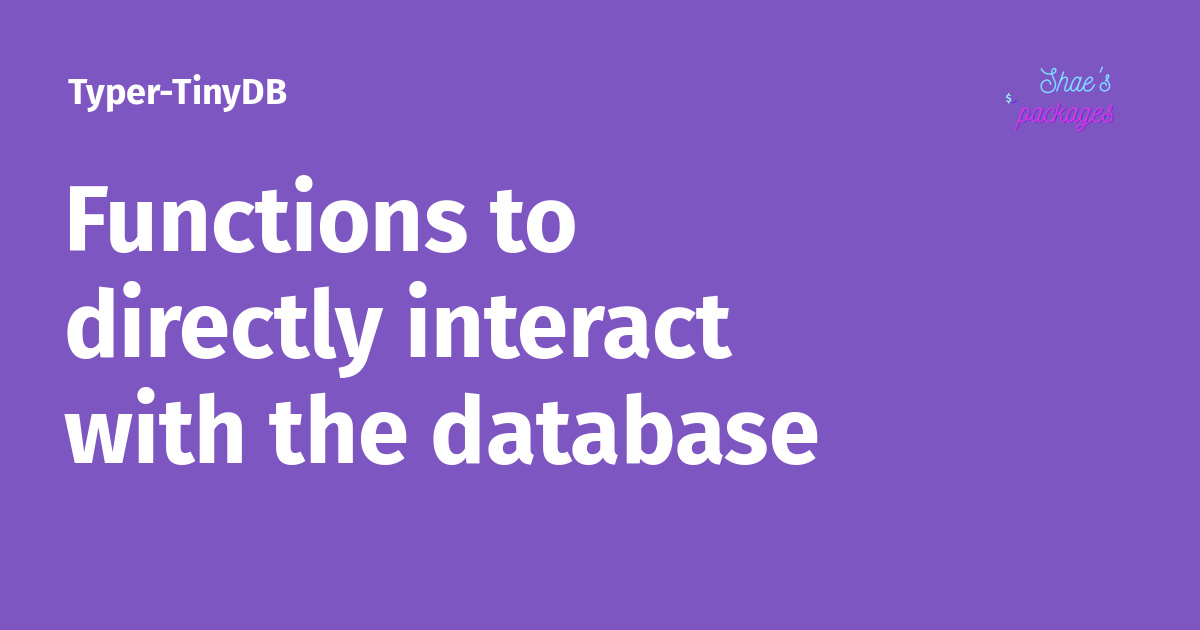
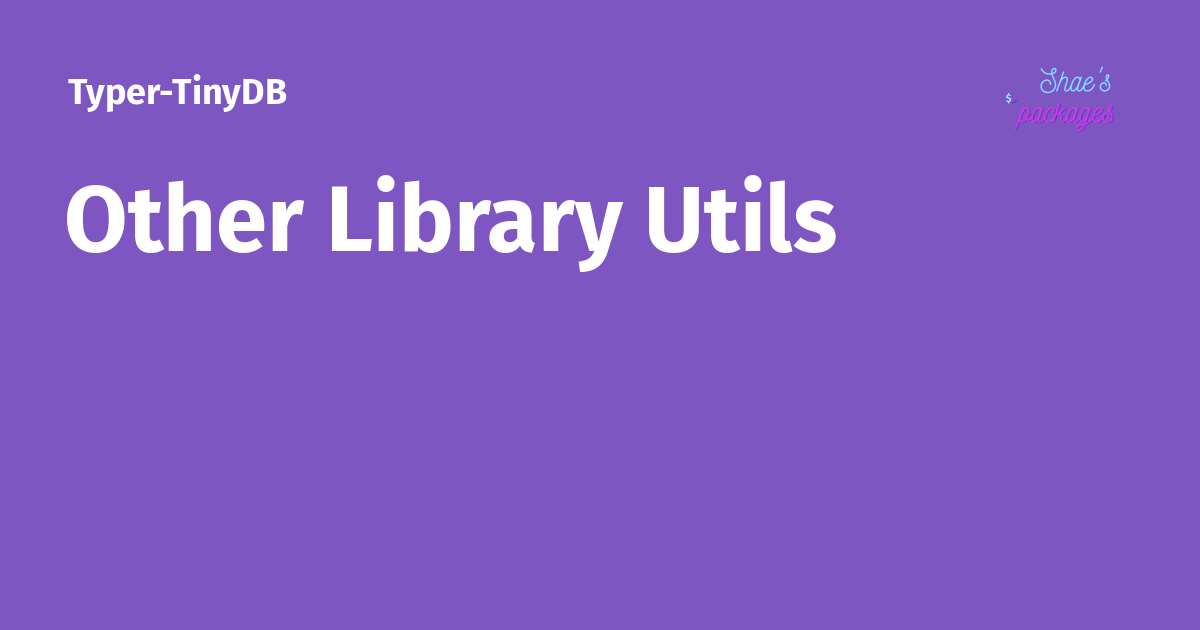
Deployed ba4acc2 to 0.1.3 with MkDocs 1.4.2 and mike 1.1.2

Changed region(s): [[0.0617, 0.2714, 0.7092, 0.4524], [0.0308, 0.6032, 0.6783, 0.754], [0.0308, 0.4524, 0.6167, 0.6032]]

diff --git a/0.1.3/other-utils/index.html b/0.1.3/other-utils/index.html
@@ -11,13 +11,17 @@
         <link rel="canonical" href="https://docs.arnov.dev/typer-tinydb/0.1.3/other-utils/">
       
       
+        <link rel="prev" href="../commands/">
+      
+      
+        <link rel="next" href="../future-work/">
       
       <link rel="icon" href="../assets/blob48.png">
       <meta name="generator" content="mkdocs-1.4.2, mkdocs-material-9.1.7">
     
     
       
-        <title>Functions to directly interact with the database - Typer-TinyDB</title>
+        <title>Other Library Utils - Typer-TinyDB</title>
       
     
     
@@ -49,7 +53,7 @@
       
         <meta  property="og:type"  content="website" >
       
-        <meta  property="og:title"  content="Functions to directly interact with the database - Typer-TinyDB" >
+        <meta  property="og:title"  content="Other Library Utils - Typer-TinyDB" >
       
         <meta  property="og:description"  content="None" >
       
@@ -65,7 +69,7 @@
       
         <meta  name="twitter:card"  content="summary_large_image" >
       
-        <meta  name="twitter:title"  content="Functions to directly interact with the database - Typer-TinyDB" >
+        <meta  name="twitter:title"  content="Other Library Utils - Typer-TinyDB" >
       
         <meta  name="twitter:description"  content="None" >
       
@@ -133,7 +137,7 @@
         <div class="md-header__topic" data-md-component="header-topic">
           <span class="md-ellipsis">
             
-              Functions to directly interact with the database
+              Other Library Utils
             
           </span>
         </div>
@@ -271,6 +275,69 @@
       <a href="../commands/" class="md-nav__link">
         Commands
       </a>
+    </li>
+  
+
+    
+      
+      
+      
+
+  
+  
+    
+  
+  
+    <li class="md-nav__item md-nav__item--active">
+      
+      <input class="md-nav__toggle md-toggle" type="checkbox" id="__toc">
+      
+      
+        
+      
+      
+        <label class="md-nav__link md-nav__link--active" for="__toc">
+          Other Library Utils
+          <span class="md-nav__icon md-icon"></span>
+        </label>
+      
+      <a href="./" class="md-nav__link md-nav__link--active">
+        Other Library Utils
+      </a>
+      
+        
+
+<nav class="md-nav md-nav--secondary" aria-label="Table of contents">
+  
+  
+  
+    
+  
+  
+    <label class="md-nav__title" for="__toc">
+      <span class="md-nav__icon md-icon"></span>
+      Table of contents
+    </label>
+    <ul class="md-nav__list" data-md-component="toc" data-md-scrollfix>
+      
+        <li class="md-nav__item">
+  <a href="#insert-upsert" class="md-nav__link">
+    Insert / Upsert
+  </a>
+  
+</li>
+      
+        <li class="md-nav__item">
+  <a href="#get-keys-values" class="md-nav__link">
+    Get Keys / Values
+  </a>
+  
+</li>
+      
+    </ul>
+  
+</nav>
+      
     </li>
   
 
@@ -424,7 +491,8 @@ The function takes in 3 parameters: <code>param</code>, <code>value</code>, and 
 <h2 id="get-keys-values">Get Keys / Values<a class="headerlink" href="#get-keys-values" title="Permanent link">&para;</a></h2>
 <p>There are two pre-made functions: <code>getKey</code> and <code>getValue</code>. The key difference is as follows:</p>
 <ul>
-<li></li>
+<li><code>getKey</code> returns <strong>all the values associated with key <code>key</code></strong></li>
+<li><code>getValue</code> arbitrarily returns the first encountered value.</li>
 </ul>
 
 
@@ -442,6 +510,42 @@ The function takes in 3 parameters: <code>param</code>, <code>value</code>, and 
       
         <footer class="md-footer">
   
+    
+      
+      <nav class="md-footer__inner md-grid" aria-label="Footer" >
+        
+          
+          <a href="../commands/" class="md-footer__link md-footer__link--prev" aria-label="Previous: Commands" rel="prev">
+            <div class="md-footer__button md-icon">
+              <svg xmlns="http://www.w3.org/2000/svg" viewBox="0 0 24 24"><path d="M20 11v2H8l5.5 5.5-1.42 1.42L4.16 12l7.92-7.92L13.5 5.5 8 11h12Z"/></svg>
+            </div>
+            <div class="md-footer__title">
+              <span class="md-footer__direction">
+                Previous
+              </span>
+              <div class="md-ellipsis">
+                Commands
+              </div>
+            </div>
+          </a>
+        
+        
+          
+          <a href="../future-work/" class="md-footer__link md-footer__link--next" aria-label="Next: Contributing" rel="next">
+            <div class="md-footer__title">
+              <span class="md-footer__direction">
+                Next
+              </span>
+              <div class="md-ellipsis">
+                Contributing
+              </div>
+            </div>
+            <div class="md-footer__button md-icon">
+              <svg xmlns="http://www.w3.org/2000/svg" viewBox="0 0 24 24"><path d="M4 11v2h12l-5.5 5.5 1.42 1.42L19.84 12l-7.92-7.92L10.5 5.5 16 11H4Z"/></svg>
+            </div>
+          </a>
+        
+      </nav>
     
   
   <div class="md-footer-meta md-typeset">

diff --git a/0.1.3/future-work/index.html b/0.1.3/future-work/index.html
@@ -11,7 +11,7 @@
         <link rel="canonical" href="https://docs.arnov.dev/typer-tinydb/0.1.3/future-work/">
       
       
-        <link rel="prev" href="../commands/">
+        <link rel="prev" href="../other-utils/">
       
       
         <link rel="next" href="../tags/">
@@ -285,6 +285,21 @@
 
   
   
+  
+    <li class="md-nav__item">
+      <a href="../other-utils/" class="md-nav__link">
+        Other Library Utils
+      </a>
+    </li>
+  
+
+    
+      
+      
+      
+
+  
+  
     
   
   
@@ -422,7 +437,7 @@
       <nav class="md-footer__inner md-grid" aria-label="Footer" >
         
           
-          <a href="../commands/" class="md-footer__link md-footer__link--prev" aria-label="Previous: Commands" rel="prev">
+          <a href="../other-utils/" class="md-footer__link md-footer__link--prev" aria-label="Previous: Other Library Utils" rel="prev">
             <div class="md-footer__button md-icon">
               <svg xmlns="http://www.w3.org/2000/svg" viewBox="0 0 24 24"><path d="M20 11v2H8l5.5 5.5-1.42 1.42L4.16 12l7.92-7.92L13.5 5.5 8 11h12Z"/></svg>
             </div>
@@ -431,7 +446,7 @@
                 Previous
               </span>
               <div class="md-ellipsis">
-                Commands
+                Other Library Utils
               </div>
             </div>
           </a>

diff --git a/0.1.3/commands/index.html b/0.1.3/commands/index.html
@@ -14,7 +14,7 @@
         <link rel="prev" href="..">
       
       
-        <link rel="next" href="../future-work/">
+        <link rel="next" href="../other-utils/">
       
       <link rel="icon" href="../assets/blob48.png">
       <meta name="generator" content="mkdocs-1.4.2, mkdocs-material-9.1.7">
@@ -362,6 +362,21 @@
   
   
     <li class="md-nav__item">
+      <a href="../other-utils/" class="md-nav__link">
+        Other Library Utils
+      </a>
+    </li>
+  
+
+    
+      
+      
+      
+
+  
+  
+  
+    <li class="md-nav__item">
       <a href="../future-work/" class="md-nav__link">
         Contributing
       </a>
@@ -588,13 +603,13 @@
         
         
           
-          <a href="../future-work/" class="md-footer__link md-footer__link--next" aria-label="Next: Contributing" rel="next">
+          <a href="../other-utils/" class="md-footer__link md-footer__link--next" aria-label="Next: Other Library Utils" rel="next">
             <div class="md-footer__title">
               <span class="md-footer__direction">
                 Next
               </span>
               <div class="md-ellipsis">
-                Contributing
+                Other Library Utils
               </div>
             </div>
             <div class="md-footer__button md-icon">

diff --git a/0.1.3/404.html b/0.1.3/404.html
@@ -250,6 +250,21 @@
   
   
     <li class="md-nav__item">
+      <a href="/typer-tinydb/0.1.3/other-utils/" class="md-nav__link">
+        Other Library Utils
+      </a>
+    </li>
+  
+
+    
+      
+      
+      
+
+  
+  
+  
+    <li class="md-nav__item">
       <a href="/typer-tinydb/0.1.3/future-work/" class="md-nav__link">
         Contributing
       </a>

diff --git a/0.1.3/about/index.html b/0.1.3/about/index.html
@@ -285,6 +285,21 @@
   
   
     <li class="md-nav__item">
+      <a href="../other-utils/" class="md-nav__link">
+        Other Library Utils
+      </a>
+    </li>
+  
+
+    
+      
+      
+      
+
+  
+  
+  
+    <li class="md-nav__item">
       <a href="../future-work/" class="md-nav__link">
         Contributing
       </a>

diff --git a/0.1.3/tags/index.html b/0.1.3/tags/index.html
@@ -287,6 +287,21 @@
   
   
     <li class="md-nav__item">
+      <a href="../other-utils/" class="md-nav__link">
+        Other Library Utils
+      </a>
+    </li>
+  
+
+    
+      
+      
+      
+
+  
+  
+  
+    <li class="md-nav__item">
       <a href="../future-work/" class="md-nav__link">
         Contributing
       </a>

diff --git a/0.1.3/index.html b/0.1.3/index.html
@@ -295,6 +295,21 @@
   
   
     <li class="md-nav__item">
+      <a href="other-utils/" class="md-nav__link">
+        Other Library Utils
+      </a>
+    </li>
+  
+
+    
+      
+      
+      
+
+  
+  
+  
+    <li class="md-nav__item">
       <a href="future-work/" class="md-nav__link">
         Contributing
       </a>
